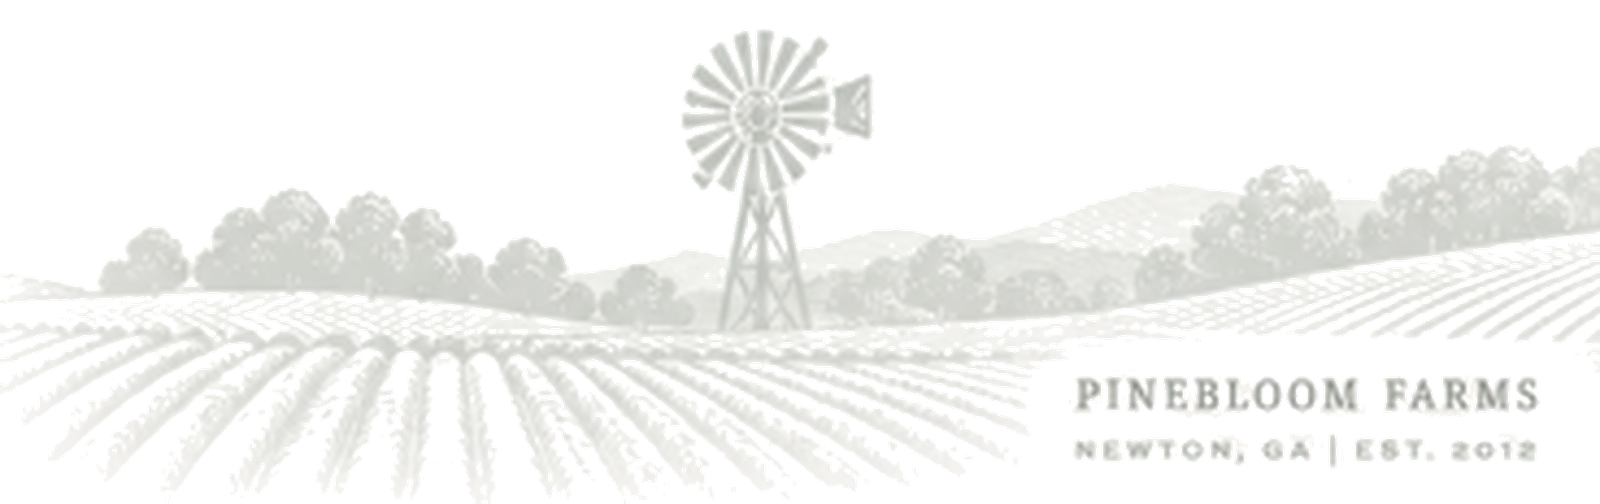
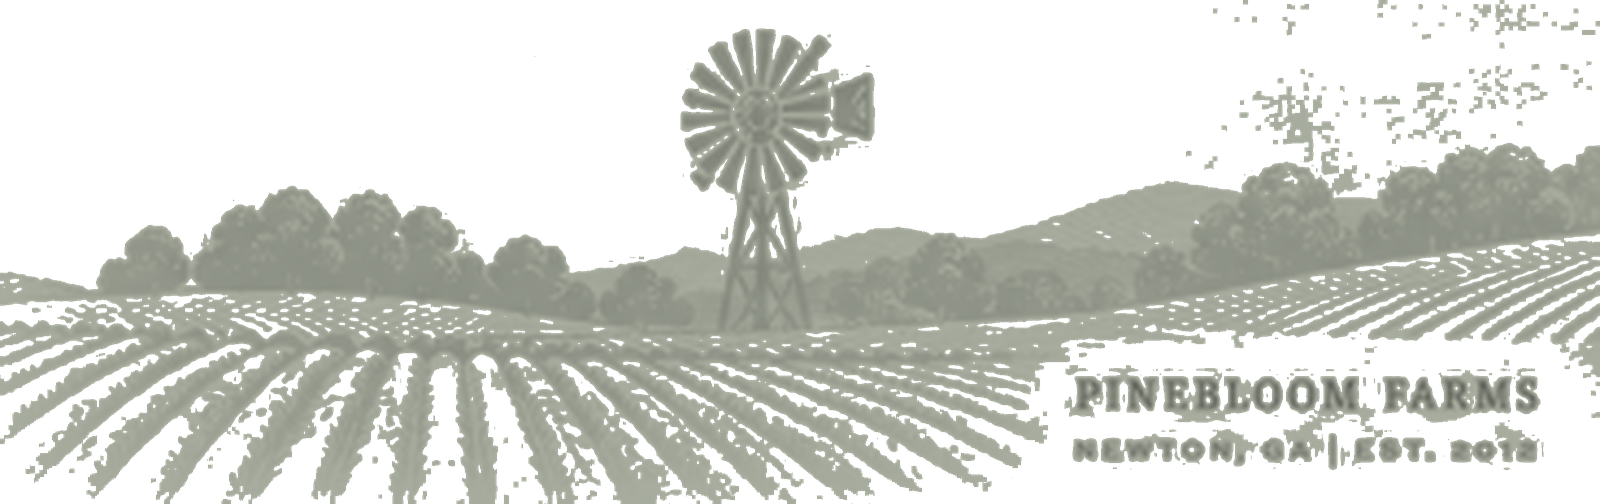
fix(ui): darken official field-hero PNG strokes for gold-master presence

diff --git a/frontend/src/lib/branding.ts b/frontend/src/lib/branding.ts
@@ -50,16 +50,16 @@ export const appBranding: AppBranding = {
   sealLine: 'PINEBLOOM FARMS · NEWTON, GA · EST. 2012',
   estYear: '2012',
   monogram: envMonogram?.trim() || defaultMonogram(company),
-  logoUrl: envLogo?.trim() || '/branding/pinebloom-logo-official.png?v=fid1',
-  logoFullUrl: '/branding/pinebloom-logo-official.png?v=fid1',
-  logoOfficialUrl: '/branding/pinebloom-logo-official.png?v=fid1',
-  logoSidebarUrl: '/branding/pinebloom-logo-sidebar.png?v=fid1',
-  logoMobileUrl: '/branding/pinebloom-logo-official.png?v=fid1',
+  logoUrl: envLogo?.trim() || '/branding/pinebloom-logo-official.png?v=fid2',
+  logoFullUrl: '/branding/pinebloom-logo-official.png?v=fid2',
+  logoOfficialUrl: '/branding/pinebloom-logo-official.png?v=fid2',
+  logoSidebarUrl: '/branding/pinebloom-logo-sidebar.png?v=fid2',
+  logoMobileUrl: '/branding/pinebloom-logo-official.png?v=fid2',
   markUrl: envMark?.trim() || '/branding/pinebloom-windmill-mark.svg',
   windmillUrl: '/branding/pinebloom-windmill-mark-light.svg',
   windmillMarkUrl: '/branding/pinebloom-windmill-mark.svg',
-  watermarkUrl: '/branding/pinebloom-field-hero.png?v=fid1',
-  landscapeUrl: '/branding/pinebloom-field-hero.png?v=fid1',
+  watermarkUrl: '/branding/pinebloom-field-hero.png?v=fid2',
+  landscapeUrl: '/branding/pinebloom-field-hero.png?v=fid2',
   documentTitle: `${company} · ${product}`,
 };
 
